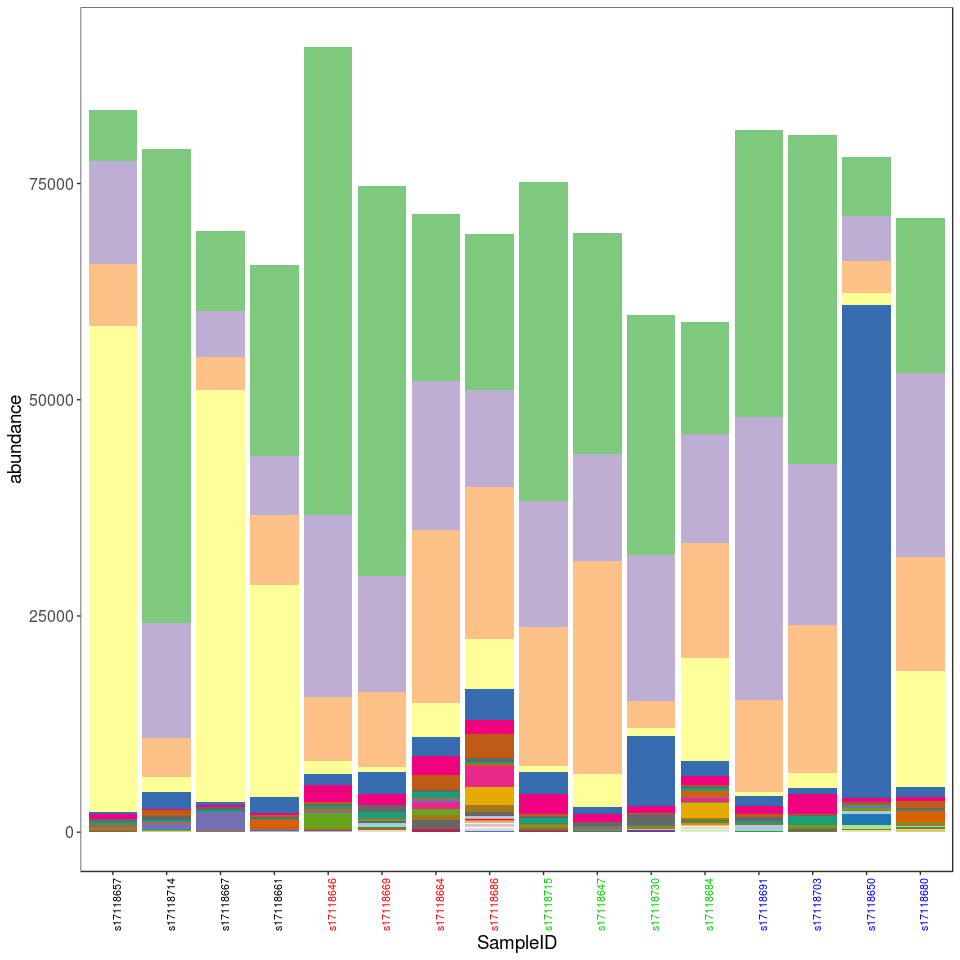
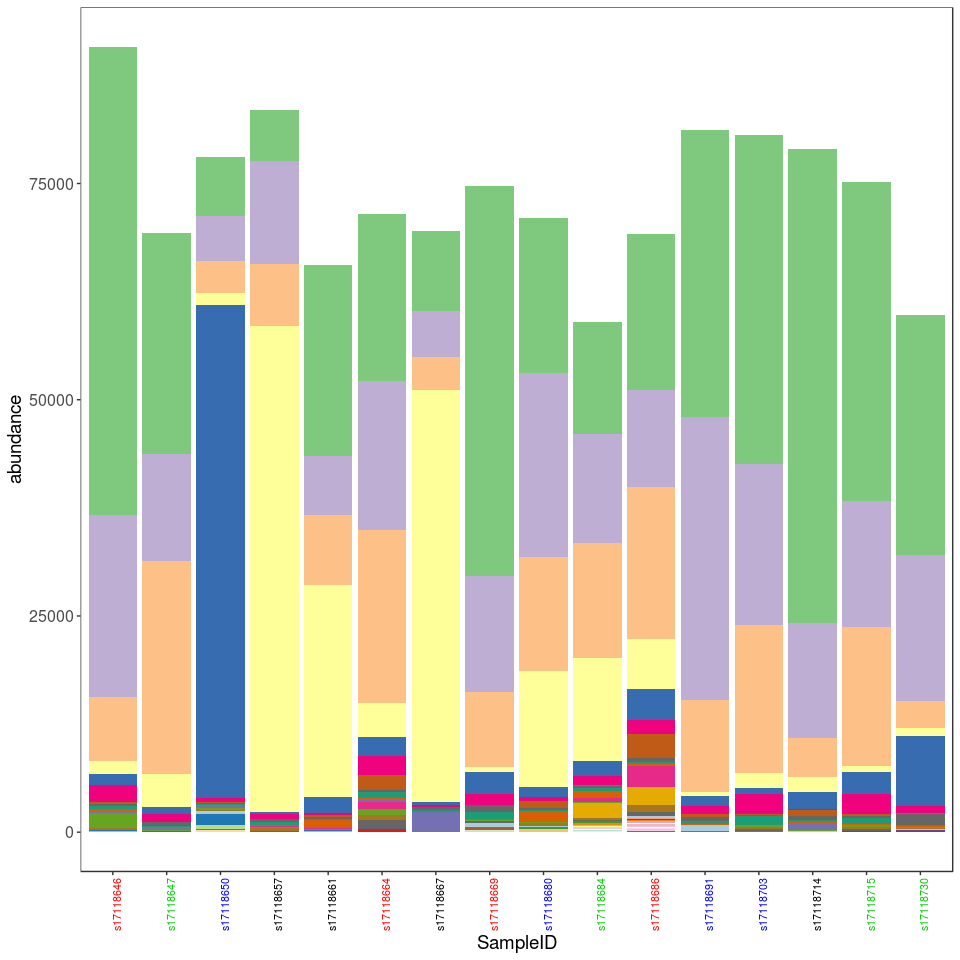
update README

diff --git a/README.md b/README.md
@@ -102,15 +102,6 @@ plot_stacked_bar(phyloseq = demo_phyloseq_object, level = "Family")
 
 ![](README_files/figure-markdown_github/Stacked%20barplot%201-1.png)
 
-### Plot in relative abundance
-
-``` r
-plot_stacked_bar(phyloseq = demo_phyloseq_object, level = "Family", 
-                 relative_abundance = TRUE)
-```
-
-![](README_files/figure-markdown_github/Stacked%20barplot%202-1.png)
-
 ### If legends are too many to show, set legend\_position to "none"
 
 ``` r
@@ -118,7 +109,7 @@ plot_stacked_bar(phyloseq = demo_phyloseq_object, level = "Family",
                  legend_position = "none")
 ```
 
-![](README_files/figure-markdown_github/Stacked%20barplot%203-1.png)
+![](README_files/figure-markdown_github/Stacked%20barplot%202-1.png)
 
 ### If you want to show feature information in x-axis, set "feature" parameter
 
@@ -128,7 +119,7 @@ plot_stacked_bar(phyloseq = demo_phyloseq_object, level = "Family",
                  feature = "diagnosis")
 ```
 
-![](README_files/figure-markdown_github/Stacked%20barplot%204-1.png)
+![](README_files/figure-markdown_github/Stacked%20barplot%203-1.png)
 
 ### If you want the sample in specific order, pass ordered sample names to "order" parameter
 
@@ -140,7 +131,26 @@ plot_stacked_bar(phyloseq = demo_phyloseq_object, level = "Family",
                  order = sample_order)
 ```
 
+![](README_files/figure-markdown_github/Stacked%20barplot%204-1.png)
+
+### Plot in relative abundance
+
+``` r
+plot_stacked_bar(phyloseq = demo_phyloseq_object, level = "Family", 
+                 relative_abundance = TRUE)
+```
+
 ![](README_files/figure-markdown_github/Stacked%20barplot%205-1.png)
+
+### Show feature information in x-axis
+
+``` r
+plot_stacked_bar(phyloseq = demo_phyloseq_object, level = "Family", 
+                 relative_abundance = TRUE, 
+                 feature = "diagnosis")
+```
+
+![](README_files/figure-markdown_github/Stacked%20barplot%206-1.png)
 
 Alpha diversity
 ===============
